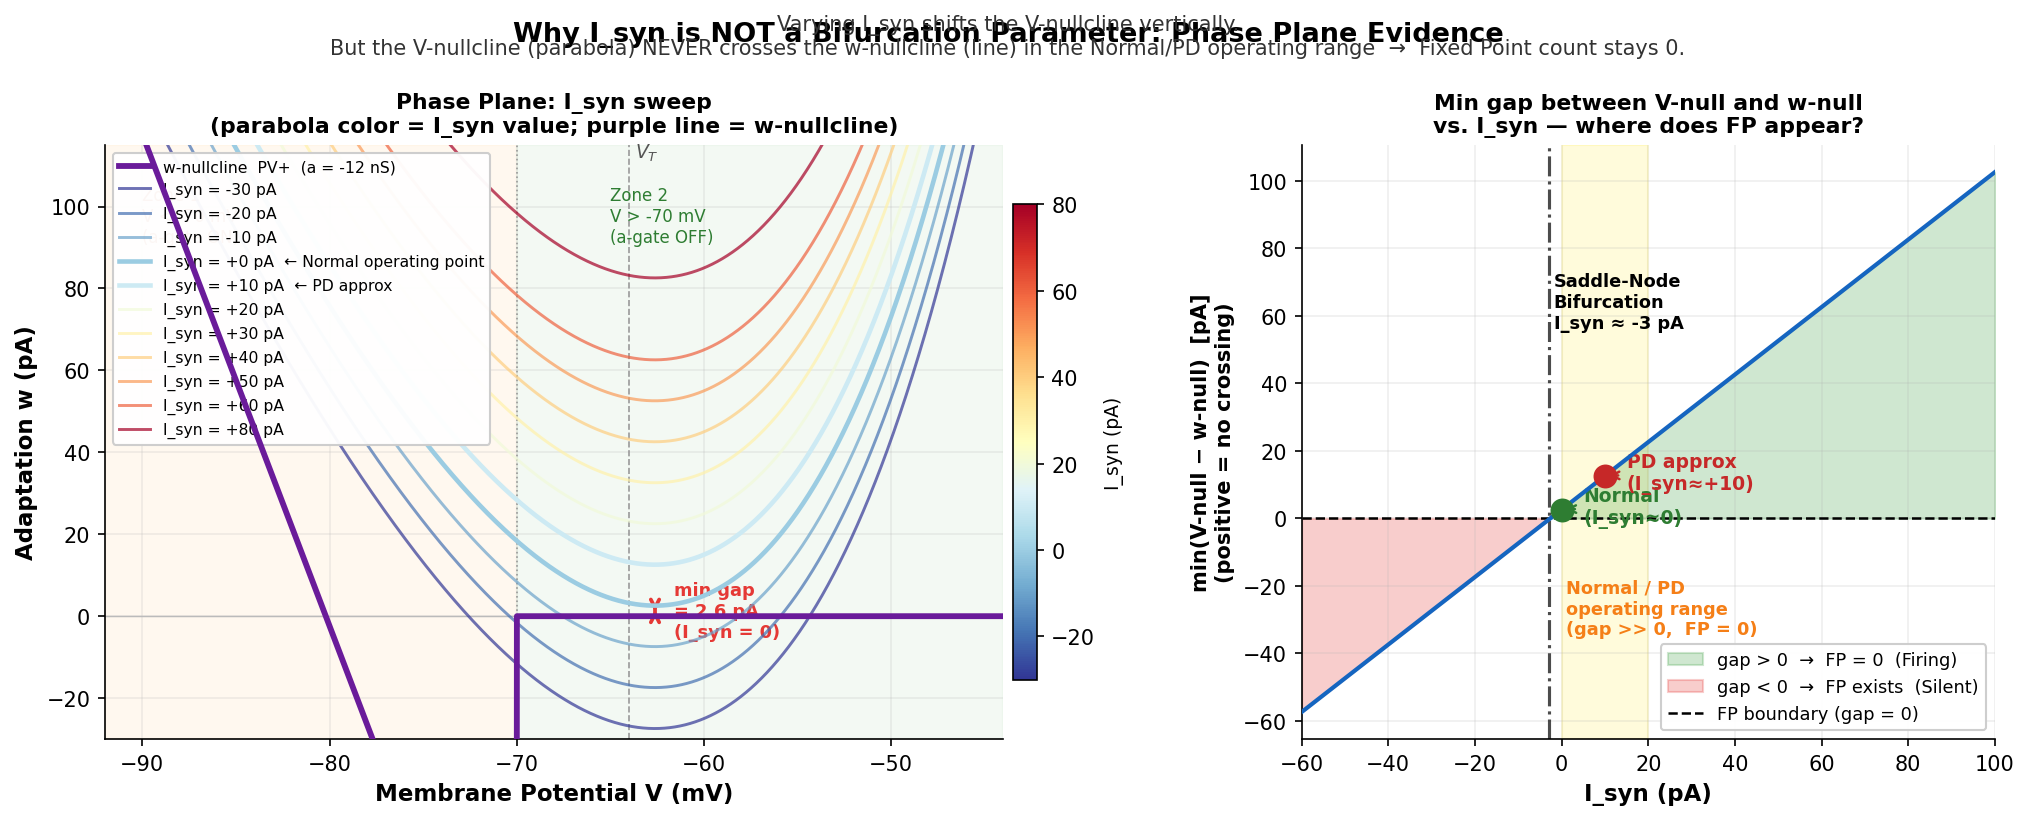
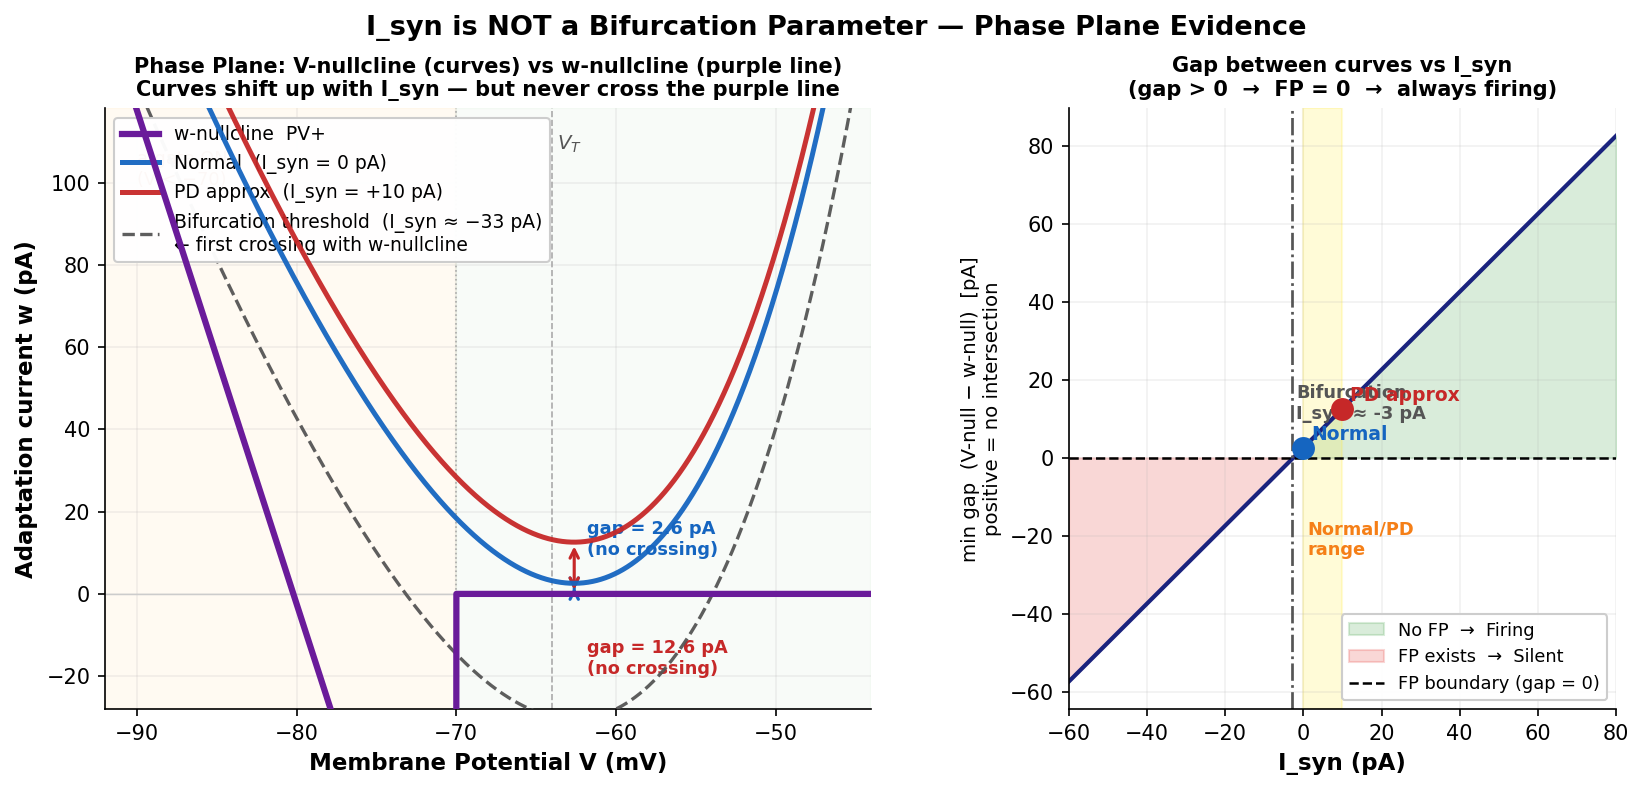
Simplify bifurcation proof: 3 curves only (Normal/PD/threshold), no rainbow

diff --git a/Downloads/stn_burst_project/plot_bifurcation_proof.py b/Downloads/stn_burst_project/plot_bifurcation_proof.py
@@ -2,192 +2,142 @@
 """
 plot_bifurcation_proof.py
 
-Focused visualization: I_syn을 바꿔도 Fixed Point가 안 생긴다는 것을 Phase Plane에서 직접 보여줌
-
-Left panel  — Phase plane: I_syn 값별 V-nullcline 여러 개를 겹쳐 그림
-              w-nullcline(직선)이 어느 곡선과도 만나지 않음을 보임
-
-Right panel — min gap(V-null - w-null) vs I_syn 스위프
-              gap > 0 이면 교점 없음(FP=0), gap < 0 이면 교점 존재(FP>0)
-              Normal/PD 운영점 표시
+Simplified: I_syn sweep phase plane — 3 key curves only.
+왼쪽 패널 하나로 핵심 전달:
+  - Normal / PD 운영점에서 V-nullcline이 w-nullcline과 만나지 않음 (FP = 0)
+  - 오른쪽에는 같은 내용을 gap 수치로 보조 확인만 표시
 """
 import numpy as np
 import matplotlib.pyplot as plt
 import matplotlib.gridspec as gridspec
-from matplotlib.collections import LineCollection
 from pathlib import Path
 
 # ── AdEx parameters (Lindahl 2016 Table 6) ───────────────────────────────────
-g_L  = 10.0;  E_L = -80.2;  V_T = -64.0;  dT = 16.2
+g_L = 10.0;  E_L = -80.2;  V_T = -64.0;  dT = 16.2
 a_PVp = -12.0;  GATE = -70.0
 E_AMPA, E_GABA = 0.0, -84.0
 
 V = np.linspace(-92, -44, 3000)
 
-def v_null(gA, gG, I_scalar=0.0):
+def v_null(gA, gG, I=0.0):
     ea = np.minimum((V - V_T) / dT, 5.0)
     return (-g_L*(V-E_L) + g_L*dT*np.exp(ea)
-            + gA*(E_AMPA-V) + gG*(E_GABA-V)
-            + I_scalar)
+            + gA*(E_AMPA-V) + gG*(E_GABA-V) + I)
 
 def w_null_pvp():
     return np.where(V < GATE, a_PVp*(V - E_L), 0.0)
 
 ww = w_null_pvp()
 
-# Base conductances: Mallet 2008 Normal (Sc10)
+# Mallet base conductances
 gA_base, gG_base = 0.25, 0.64
 
-# ── I_syn sweep values ────────────────────────────────────────────────────────
-I_values = np.array([-30, -20, -10, 0, 10, 20, 30, 40, 50, 60, 80])
-# Color: negative I_syn = cool (blue), positive = warm (red)
-cmap = plt.cm.RdYlBu_r
-norm_c = plt.Normalize(I_values.min(), I_values.max())
+# ── Only 3 key curves ─────────────────────────────────────────────────────────
+CURVES = [
+    dict(I=0,   label="Normal  (I_syn = 0 pA)",        color="#1565c0", lw=2.4, ls="-",  zorder=6),
+    dict(I=10,  label="PD approx  (I_syn = +10 pA)",   color="#c62828", lw=2.4, ls="-",  zorder=6),
+    dict(I=-33, label="Bifurcation threshold  (I_syn ≈ −33 pA)\n← first crossing with w-nullcline",
+                                                         color="#555",   lw=1.6, ls="--", zorder=5),
+]
 
-# min gap for each I_syn (positive = no crossing = FP count 0)
-I_sweep = np.linspace(-60, 100, 600)
-min_gaps = []
-for I in I_sweep:
-    wv = v_null(gA_base, gG_base, I)
-    gap = wv - ww           # positive where V-null > w-null
-    min_gaps.append(float(gap.min()))
+# gap sweep for right panel (simplified)
+I_sweep = np.linspace(-60, 80, 500)
+min_gaps = [float((v_null(gA_base, gG_base, I) - ww).min()) for I in I_sweep]
 min_gaps = np.array(min_gaps)
 
 # ─────────────────────────────────────────────────────────────────────────────
-fig = plt.figure(figsize=(14, 5.5), facecolor="white")
+fig, axes = plt.subplots(1, 2, figsize=(13, 5.2), facecolor="white",
+                         gridspec_kw={"width_ratios": [1.4, 1.0], "wspace": 0.30})
 fig.suptitle(
-    "Why I_syn is NOT a Bifurcation Parameter: Phase Plane Evidence",
-    fontsize=13, fontweight="bold", y=0.99
-)
-fig.text(
-    0.5, 0.95,
-    "Varying I_syn shifts the V-nullcline vertically.\n"
-    "But the V-nullcline (parabola) NEVER crosses the w-nullcline (line) "
-    "in the Normal/PD operating range  →  Fixed Point count stays 0.",
-    ha="center", fontsize=10, color="#333"
+    "I_syn is NOT a Bifurcation Parameter — Phase Plane Evidence",
+    fontsize=13, fontweight="bold", y=1.00
 )
 
-gs = gridspec.GridSpec(1, 2, figure=fig, wspace=0.32,
-                       left=0.07, right=0.97, top=0.84, bottom=0.12,
-                       width_ratios=[1.35, 1.0])
-
 # ═══════════════════════════════════════════════════════════════════════════
-# LEFT: Phase plane — V-nullclines for each I_syn
+# LEFT: Phase Plane
 # ═══════════════════════════════════════════════════════════════════════════
-ax = fig.add_subplot(gs[0])
+ax = axes[0]
 
-# Zone shading
-ax.axvspan(-92, GATE, color="#fff3e0", alpha=0.5)
-ax.axvspan(GATE, -44, color="#e8f5e9", alpha=0.5)
-ax.text(-90, 105, "Zone 1\nV < -70 mV\n(a-gate ON)", fontsize=8,
-        color="#bf360c", va="top")
-ax.text(-65, 105, "Zone 2\nV > -70 mV\n(a-gate OFF)", fontsize=8,
-        color="#2e7d32", va="top")
+# Minimal zone shading
+ax.axvspan(-92, GATE, color="#fff3e0", alpha=0.40)
+ax.axvspan(GATE, -44, color="#e8f5e9", alpha=0.30)
+ax.axhline(0, color="#ccc", lw=0.7)
+ax.axvline(GATE, color="#aaa", lw=0.8, ls=":")
+ax.axvline(V_T,  color="#aaa", lw=0.8, ls="--")
+ax.text(V_T + 0.3, 108, "$V_T$", fontsize=9.5, color="#555")
+ax.text(-90, 108, "a-gate ON\n(V < −70)", fontsize=8.5, color="#bf360c", va="top")
 
-# w-nullcline — prominent
-ax.plot(V, ww, color="#6a1b9a", lw=2.8, zorder=10,
-        label="w-nullcline  PV+  (a = -12 nS)")
+# w-nullcline
+ax.plot(V, ww, color="#6a1b9a", lw=3.0, zorder=10, label="w-nullcline  PV+")
 
-# V-nullclines for each I_syn value
-for I in I_values:
-    wv = v_null(gA_base, gG_base, I)
-    col = cmap(norm_c(I))
-    lw = 2.2 if I in (0, 10) else 1.4
-    alpha = 1.0 if I in (0, 10) else 0.70
-    label = f"I_syn = {I:+.0f} pA"
-    if I == 0:
-        label += "  ← Normal operating point"
-    if I == 10:
-        label += "  ← PD approx"
-    ax.plot(V, wv, color=col, lw=lw, alpha=alpha, zorder=5, label=label)
+# 3 V-nullclines
+for c in CURVES:
+    wv = v_null(gA_base, gG_base, c["I"])
+    ax.plot(V, wv, color=c["color"], lw=c["lw"], ls=c["ls"],
+            alpha=0.95, zorder=c["zorder"], label=c["label"])
 
-# Arrow annotations showing "gap" between closest approach and w-null
-# Pick I=0 as example
-wv0 = v_null(gA_base, gG_base, 0.0)
-idx_min = int(np.argmin(wv0 - ww))   # where the gap is smallest
-v_closest = V[idx_min]
-w_null_closest = ww[idx_min]
-v_null_closest = wv0[idx_min]
-ax.annotate("",
-    xy=(v_closest, w_null_closest),
-    xytext=(v_closest, v_null_closest),
-    arrowprops=dict(arrowstyle="<->", color="#e53935", lw=1.8))
-ax.text(v_closest + 1.0, (w_null_closest + v_null_closest) / 2,
-        f"min gap\n= {v_null_closest - w_null_closest:.1f} pA\n(I_syn = 0)",
-        fontsize=8.5, color="#e53935", fontweight="bold", va="center")
+# Annotate min gap for Normal and PD
+for I_op, label, col, dy in [(0, "gap = {:.1f} pA\n(no crossing)", "#1565c0", 12),
+                               (10, "gap = {:.1f} pA\n(no crossing)", "#c62828", -22)]:
+    wv_op = v_null(gA_base, gG_base, I_op)
+    gap_op = float((wv_op - ww).min())
+    idx = int(np.argmin(wv_op - ww))
+    v_pt = V[idx]; w_pt = ww[idx]; wvpt = wv_op[idx]
+    # arrow between the two curves at closest point
+    ax.annotate("", xy=(v_pt, w_pt), xytext=(v_pt, wvpt),
+                arrowprops=dict(arrowstyle="<->", color=col, lw=1.5))
+    ax.text(v_pt + 0.8, (w_pt + wvpt)/2 + dy,
+            label.format(gap_op),
+            fontsize=8.5, color=col, fontweight="bold", va="center")
 
-# Colorbar
-sm = plt.cm.ScalarMappable(cmap=cmap, norm=norm_c)
-sm.set_array([])
-cbar = fig.colorbar(sm, ax=ax, fraction=0.03, pad=0.01, shrink=0.8)
-cbar.set_label("I_syn (pA)", fontsize=9)
-
-ax.set_xlim(-92, -44); ax.set_ylim(-30, 115)
-ax.axhline(0, color="#bbb", lw=0.7)
-ax.axvline(GATE, color="#999", lw=0.8, ls=":")
-ax.axvline(V_T,  color="#999", lw=0.8, ls="--")
-ax.text(V_T + 0.3, 112, "$V_T$", fontsize=9, color="#555")
+ax.set_xlim(-92, -44); ax.set_ylim(-28, 118)
 ax.set_xlabel("Membrane Potential V (mV)", fontsize=11, fontweight="bold")
-ax.set_ylabel("Adaptation w (pA)", fontsize=11, fontweight="bold")
-ax.set_title("Phase Plane: I_syn sweep\n(parabola color = I_syn value; purple line = w-nullcline)",
-             fontsize=10.5, fontweight="bold")
-ax.legend(loc="upper left", fontsize=7.5, framealpha=0.96, ncol=1)
-ax.grid(True, alpha=0.2)
+ax.set_ylabel("Adaptation current w (pA)", fontsize=11, fontweight="bold")
+ax.set_title("Phase Plane: V-nullcline (curves) vs w-nullcline (purple line)\n"
+             "Curves shift up with I_syn — but never cross the purple line",
+             fontsize=10, fontweight="bold")
+ax.legend(loc="upper left", fontsize=9, framealpha=0.97)
+ax.grid(True, alpha=0.18)
 ax.spines["top"].set_visible(False); ax.spines["right"].set_visible(False)
 
 # ═══════════════════════════════════════════════════════════════════════════
-# RIGHT: min gap vs I_syn
+# RIGHT: min gap vs I_syn — simplified
 # ═══════════════════════════════════════════════════════════════════════════
-ax2 = fig.add_subplot(gs[1])
-
-# Color the line by sign
-pos = min_gaps >= 0
-neg = min_gaps < 0
+ax2 = axes[1]
 
 ax2.fill_between(I_sweep, min_gaps, 0,
-                 where=pos, color="#43a047", alpha=0.25,
-                 label="gap > 0  →  FP = 0  (Firing)")
+                 where=min_gaps >= 0, color="#43a047", alpha=0.20,
+                 label="No FP  →  Firing")
 ax2.fill_between(I_sweep, min_gaps, 0,
-                 where=neg, color="#e53935", alpha=0.25,
-                 label="gap < 0  →  FP exists  (Silent)")
-ax2.plot(I_sweep, min_gaps, color="#1565c0", lw=2.0, zorder=5)
+                 where=min_gaps < 0, color="#e53935", alpha=0.20,
+                 label="FP exists  →  Silent")
+ax2.plot(I_sweep, min_gaps, color="#1a237e", lw=2.0)
 ax2.axhline(0, color="black", lw=1.2, ls="--", label="FP boundary (gap = 0)")
 
-# Mark the bifurcation point
-bif_idx = np.where(np.diff(np.sign(min_gaps)))[0]
-for bi in bif_idx:
-    ax2.axvline(I_sweep[bi], color="black", lw=1.5, ls="-.", alpha=0.7)
-    ax2.text(I_sweep[bi] + 1, min_gaps.max() * 0.55,
-             f"Saddle-Node\nBifurcation\nI_syn ≈ {I_sweep[bi]:.0f} pA",
-             fontsize=8.5, color="black", fontweight="bold")
+# Bifurcation marker
+bif = I_sweep[np.where(np.diff(np.sign(min_gaps)))[0][0]]
+ax2.axvline(bif, color="#555", lw=1.3, ls="-.")
+ax2.text(bif + 1, 10, f"Bifurcation\nI_syn ≈ {bif:.0f} pA", fontsize=8.5,
+         color="#555", fontweight="bold")
 
-# Mark Normal and PD operating points
-# Compute actual gap at I_syn=0 (Normal) and I_syn~+10 (PD)
-for I_op, label, col in [(0, "Normal\n(I_syn≈0)", "#2e7d32"),
-                          (10, "PD approx\n(I_syn≈+10)", "#c62828")]:
-    wv_op = v_null(gA_base, gG_base, I_op)
-    gap_op = float((wv_op - ww).min())
-    ax2.scatter([I_op], [gap_op], color=col, s=110, zorder=10)
-    ax2.annotate(label, (I_op, gap_op),
-                 xytext=(I_op + 5, gap_op - 4),
-                 fontsize=9, color=col, fontweight="bold",
-                 arrowprops=dict(arrowstyle="->", color=col, lw=1.2))
+# Normal and PD dots
+for I_op, lbl, col in [(0, "Normal", "#1565c0"), (10, "PD approx", "#c62828")]:
+    gap = float((v_null(gA_base, gG_base, I_op) - ww).min())
+    ax2.scatter([I_op], [gap], color=col, s=100, zorder=8)
+    ax2.text(I_op + 2, gap + 2, lbl, fontsize=9, color=col, fontweight="bold")
 
-ax2.set_xlim(I_sweep[0], I_sweep[-1])
+# Highlight Normal/PD range
+ax2.axvspan(0, 10, color="#ffeb3b", alpha=0.20)
+ax2.text(1, -25, "Normal/PD\nrange", fontsize=8.5, color="#f57f17", fontweight="bold")
+
+ax2.set_xlim(-60, 80)
 ax2.set_xlabel("I_syn (pA)", fontsize=11, fontweight="bold")
-ax2.set_ylabel("min(V-null − w-null)  [pA]\n(positive = no crossing)", fontsize=10, fontweight="bold")
-ax2.set_title("Min gap between V-null and w-null\nvs. I_syn — where does FP appear?",
-              fontsize=10.5, fontweight="bold")
-ax2.legend(loc="lower right", fontsize=8.5, framealpha=0.96)
-ax2.grid(True, alpha=0.2)
+ax2.set_ylabel("min gap  (V-null − w-null)  [pA]\npositive = no intersection", fontsize=9.5)
+ax2.set_title("Gap between curves vs I_syn\n(gap > 0  →  FP = 0  →  always firing)",
+              fontsize=10, fontweight="bold")
+ax2.legend(loc="lower right", fontsize=8.5, framealpha=0.97)
+ax2.grid(True, alpha=0.18)
 ax2.spines["top"].set_visible(False); ax2.spines["right"].set_visible(False)
-
-# Shaded region annotation for Normal/PD range
-ax2.axvspan(0, 20, color="#ffeb3b", alpha=0.18, zorder=0,
-            label="Normal/PD operating range")
-ax2.text(1, min_gaps.min() * 0.6,
-         "Normal / PD\noperating range\n(gap >> 0,  FP = 0)",
-         fontsize=8.5, color="#f57f17", fontweight="bold")
 
 out = Path("results/bifurcation_proof.png")
 fig.savefig(out, dpi=150, bbox_inches="tight", facecolor="white")
